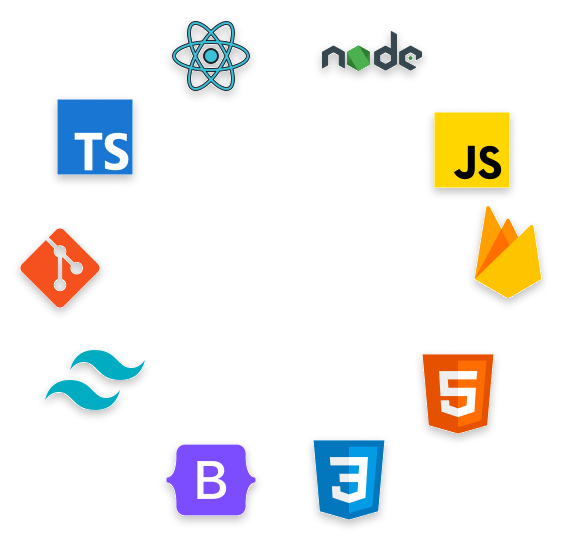
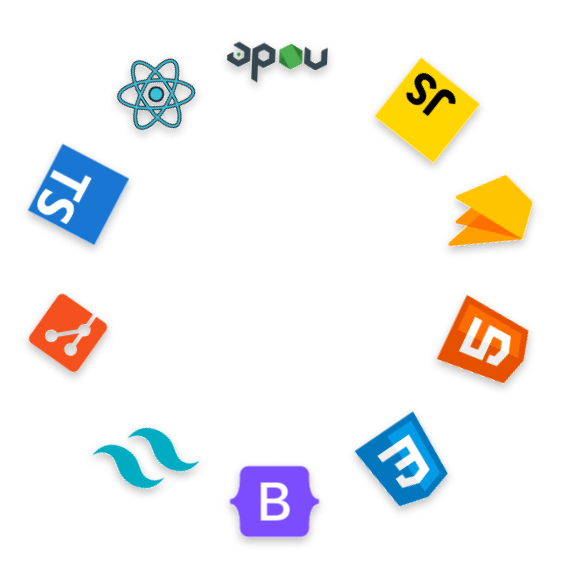
feat: orbit home techs image

Changed region(s): [[0.0301, 0.0312, 0.9628, 0.9688]]

diff --git a/js/main.js b/js/main.js
@@ -104,14 +104,14 @@ function handleFormSubmit() {
 }
 
 function handleHomeTechsImage() {
-  const img = document.getElementById("techs-top");
+  const img = document.getElementById("techs-top-img");
 
   updateHomeImage();
 
   window.addEventListener("resize", updateHomeImage);
 
   function updateHomeImage() {
-    if (window.innerWidth < 768) {
+    if (window.innerWidth < 992) {
       img.setAttribute("src", "./assets/images/techs-small.png");
     } else {
       img.setAttribute("src", "./assets/images/techs-big.png");

diff --git a/index.html b/index.html
@@ -54,8 +54,8 @@
         <main>
 
             <section id="home">
-                <div id="top-techs">
-                    <img id="techs-top" src="./assets/images/techs-small.png"
+                <div id="techs-top">
+                    <img id="techs-top-img" src="./assets/images/techs-small.png"
                         alt="ícones das tecnologias git, typescript, javascript, react.js, html5, tailwindCSS, css3, node.js, firebase e bootstrap respectivamente.">
                 </div>
 

diff --git a/css/breakpoints/large.css b/css/breakpoints/large.css
@@ -1,5 +1,19 @@
+@keyframes orbit {
+  0% {
+    transform: rotateZ(0deg);
+  }
+
+  100% {
+    transform: rotateZ(360deg);
+  }
+}
+
 @media (min-width: 992px) {
 
- 
+  #techs-top-img {
+    height: 300px;
+    transition: none;
+    animation: orbit linear infinite 10s;
+  }
 
 }

diff --git a/css/breakpoints/extra-small.css b/css/breakpoints/extra-small.css
@@ -125,7 +125,7 @@ main #home {
   padding-bottom: 150px;
 }
 
-#home #top-techs {
+#home #techs-top {
   width: 100%;
   text-align: center;
 }

diff --git a/css/breakpoints/medium.css b/css/breakpoints/medium.css
@@ -1,3 +1,3 @@
 @media (min-width: 768px) {
-
+    
 }
